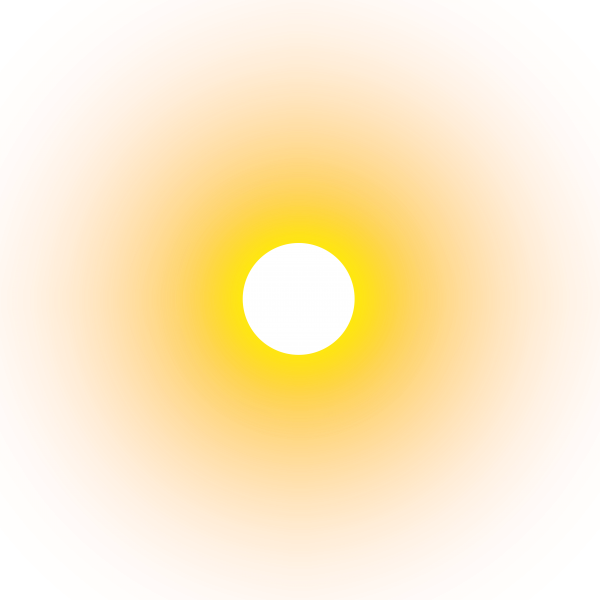
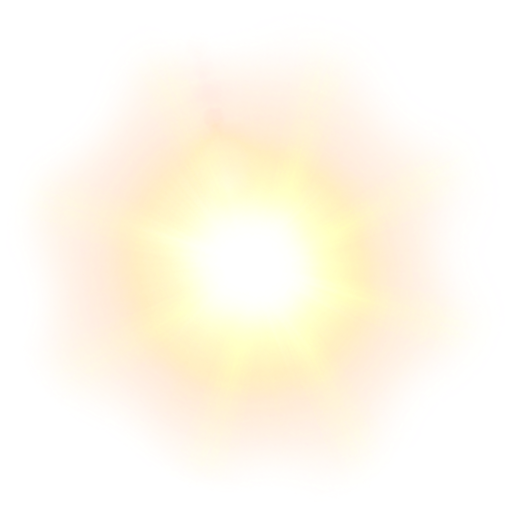
mountain and sun are finish before noon rain

diff --git a/javascript/season.js b/javascript/season.js
@@ -1,43 +1,84 @@
 $(document).ready(function() {
-	let windowHeight = $(window).outerHeight();
-	let satuanDeg = windowHeight / 185;
-	let opacityNight = 1;
-	let moon = $("#moon");
-	let seasons = ["night", "noon", "noonRain", "nightRain"];
-	
-	// satuanDeg = roundSatuanDeg - decimalsSatuanDeg;
+	const moon = $("#moon");
+	const sun = $("#sun");
+	const stars = $("#stars");
+	const mountainsMalam = $(".mountains_malam");
+	const mountainsSiang = $(".mountains_siang");
+	const seasons = ["night", "noon", "noonRain", "nightRain"];
 
-	// const round = (number, decimalPlaces) => {
-	// 	const factorOfTen = Math.pow(10, decimalPlaces)
-	// 	return Math.round(number * factorOfTen) / factorOfTen
-	// }
+	let windowHeight = $(window).outerHeight();
+	let valScrlTop = $(window).scrollTop();
 
 	for (var i = 0; i < seasons.length; i++) {
 		$('#'+seasons[i]).height(windowHeight);
 	}
 
-	$("#stars").clone().appendTo('#nightRain');
+	const night = document.getElementById('night');
+	const noon = document.getElementById('noon');
+	const noonOffsetTop = $('#noon').offset().top;
+	const noonRain = document.getElementById('noonRain');
+
+	let noonAxisY = seasonAxisY(noon);
+
+	stars.clone().appendTo('#nightRain');
+
+	seasonNight($(window), night, moon, stars, mountainsMalam)
+	noonSunPosition(valScrlTop, noonAxisY, windowHeight, sun)
+
+	$(window).resize(function(event) {
+		seasonNight($(this), night, moon, stars, mountainsMalam)
+		noonSunPosition(valScrlTop, noonAxisY, windowHeight, sun)
+	})
 
 	$(window).scroll(function(event) {
-		let valScrlTop = $(this).scrollTop();
-		const nightYaxis = document.getElementById("night").getBoundingClientRect().top;
-		// let a = (($("body").height() / $(this).outerHeight()) * 2 ) ;
-
-		opacityNight = (((nightYaxis/2) / windowHeight) * 100) / 100;
+		windowHeight = $(window).outerHeight(); 
+		valScrlTop = $(this).scrollTop();
+		noonAxisY = seasonAxisY(noon);
+		let noonRainAxisY = seasonAxisY(noonRain);
 		
-		// $("#abc").text(valScrlTop)
-		$("#hij").text(opacityNight)
-		$("#efg").text(nightYaxis)
+		// $("#abc").text(windowHeight*(22/100))
+		// $("#hij").text((((6/100) * noonOffsetTop) + windowHeight))
+		$("#efg").text(valScrlTop)
 
+		seasonNight($(this), night, moon, stars, mountainsMalam)
 
+		if (valScrlTop > (noonAxisY - (windowHeight*(60/100))) && valScrlTop < ((noonAxisY + (windowHeight*(110/100))) - (windowHeight*(1/400)))) {
+			let opacityNight = opacitySeason(noonAxisY, windowHeight) - 0.3;
 
-		if (nightYaxis > (windowHeight*(22/100))) {
-			moon.css('bottom', (nightYaxis - (windowHeight*(30/100)))+ 'px');
+			sun.css('top', (noonAxisY - (windowHeight*(60/100)))+ 'px');
+
+			mountainsMalam.css('opacity', opacityNight);
 		}
-
-		$('#stars').css('bottom', '-'+valScrlTop * 0.25 + 'px');
-		$('#text').css('margin-right', valScrlTop * 4 + 'px');
-		$('#text').css('margin-top', valScrlTop * 1.5 + 'px');
-		$('#btn').css('margin-top', valScrlTop * 1.5 + 'px');
 	});
 });
+
+function seasonNight(WINDOW, night, moon, stars, mountainsMalam) {
+	let windowHeight = $(WINDOW).outerHeight(); 
+	let valScrlTop = $(WINDOW).scrollTop();
+	let nightAxisY = seasonAxisY(night);
+	let opacityNight = opacitySeason(nightAxisY, windowHeight);
+
+	if (nightAxisY > (windowHeight*(22/100))) {
+		moon.css('top', (nightAxisY - (windowHeight*(60/100)))+ 'px');
+	}
+
+	stars.css({
+		opacity: opacityNight,
+		bottom: '-'+valScrlTop * 0.25 + 'px'
+	});
+	
+}
+
+function noonSunPosition(valScrlTop, noonAxisY, windowHeight, sun) {
+	if (valScrlTop < noonAxisY) {
+		sun.css('top', ((noonAxisY/2) - (windowHeight*(30/100)))+ 'px');
+	}
+}
+
+function opacitySeason(seasonAxisY, windowHeight) {
+	return ((seasonAxisY / windowHeight) * 100) / 100;
+}
+
+function seasonAxisY(season) {
+	return season.getBoundingClientRect().top;
+}

diff --git a/index.html b/index.html
@@ -17,11 +17,14 @@
 	</header>
 	<section>
 		<img src="images/stars.png" id="stars">
-		<img src="images/moon3.png" id="moon" data-moon-deg="0">
-		<img src="images/mountains_behind malam.png" id="mountains_behind_malam">
+		<img src="images/moon3.png" id="moon" class="light moon-light">
+		<img src="images/sun.png" id="sun" class="light sun-light">
+		<img src="images/mountains_behind siang.png" id="mountains_behind_siang" class="mountains mountains_behind_siang mountains_siang">
+		<img src="images/mountains_behind malam.png" id="mountains_behind_malam" class="mountains mountains_behind_malam mountains_malam">
 		<h2 id="text">Moon Light</h2>
-		<a href="#sec" id="btn">Klik Disini</a>
-		<img src="images/mountains_front malam.png" id="mountains_front_malam">
+		<!-- <a href="#sec" id="btn">Klik Disini</a> -->
+		<img src="images/mountains_front malam.png" id="mountains_front_malam" class="mountains mountains_front_malam mountains_malam">
+		<img src="images/mountains_front siang.png" id="mountains_front_siang" class="mountains mountains_front_siang mountains_siang">
 	</section>
 	<div id="night"></div>
 	<div id="noon"></div>

diff --git a/css/season.css b/css/season.css
@@ -9,7 +9,7 @@
 body {
 	min-height:  100vh;
 	overflow-x: hidden;
-	background: linear-gradient(#2b1055,#7597de);
+	background: linear-gradient(#2b1055,#a3c1ff, #7395dc, #210b44);
 }
 header {
 	position: fixed;
@@ -68,12 +68,11 @@ section {
 	background: linear-gradient(to top, #1c0522,transparent);
 	z-index: 1000;
 }*/
-section img#mountains_front_malam,
-section img#mountains_behind_malam,
+section img.mountains,
 section img#stars {
 	position: fixed !important;
 }
-section img:not(#moon) {
+section img:not(.light) {
 	top: 0;
 	position: absolute;
 	left: 0;
@@ -82,17 +81,22 @@ section img:not(#moon) {
 	object-fit: cover;
 	pointer-events: none;
 }
-section img#moon {
-	margin-bottom: -8vh;
-	bottom: 0;
+section img.light {
+	top: 0;
 	left: 50%;
 	margin-left: -256px;
 	position: fixed;
 	mix-blend-mode: screen;
 	transform: scale(0.4);
 }
-section img#mountains_front_malam {
+section img.sun-light {
+	transform: scale(0.8);
+}
+section img.mountains_siang {
 	z-index: 10;
+}
+section img.mountains_malam {
+	z-index: 11;
 }
 #text {
 	position: absolute;
